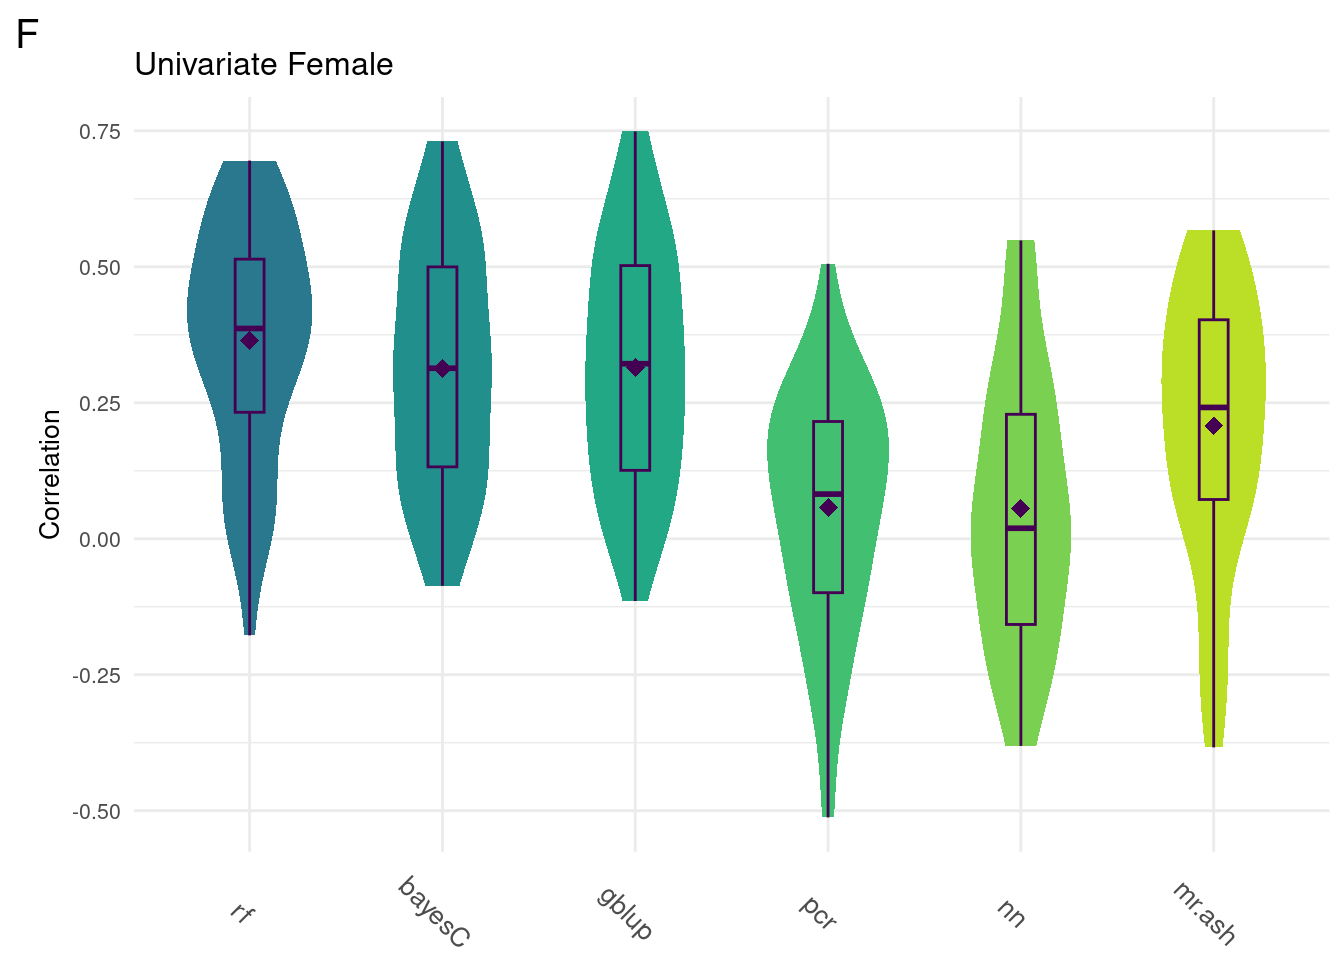
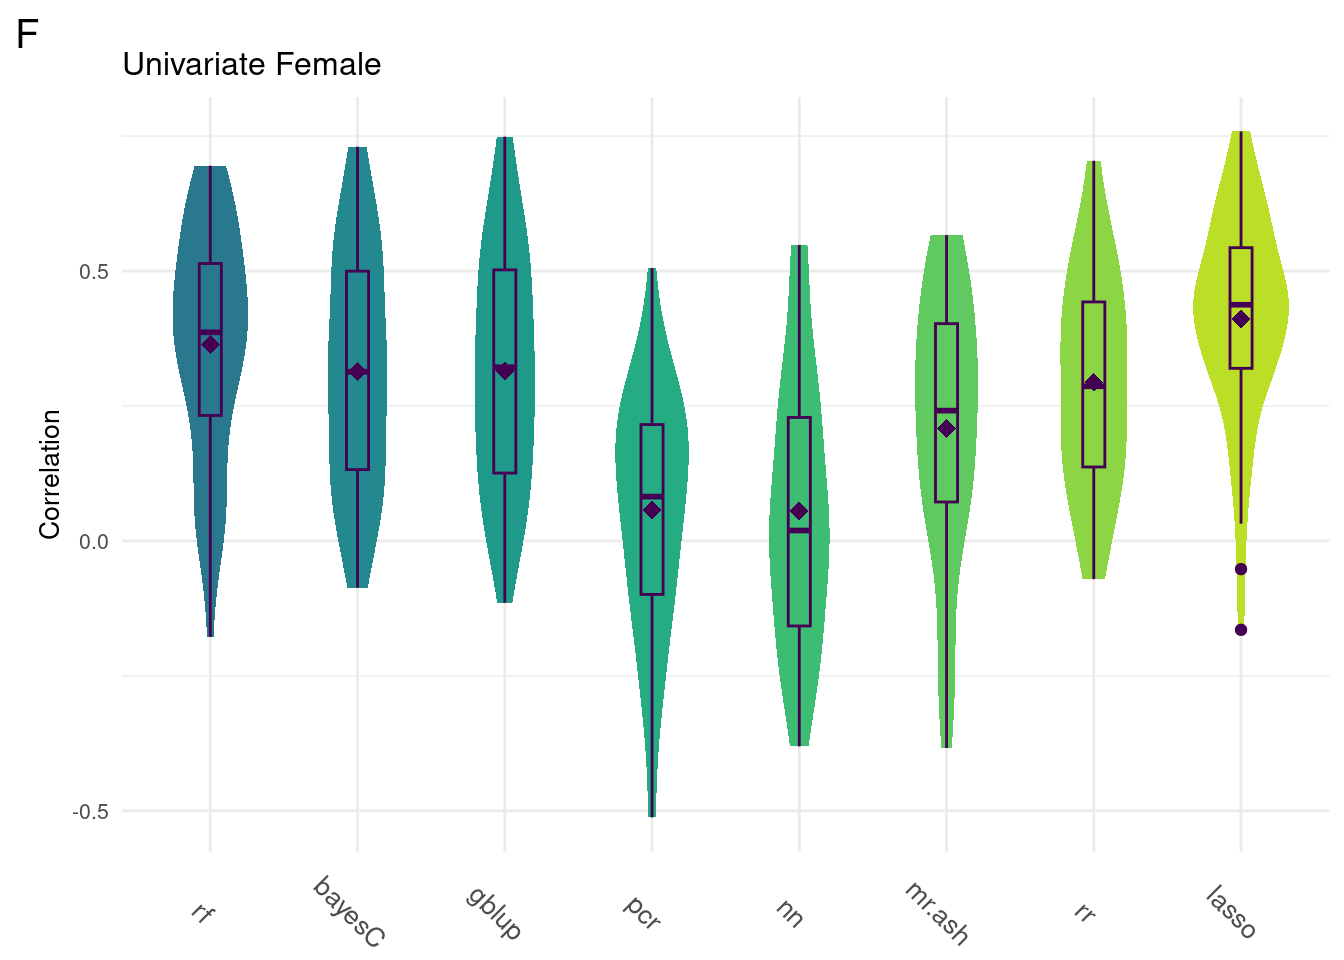
Build site.

diff --git a/docs/allHist.html b/docs/allHist.html
@@ -509,16 +509,16 @@ relative
 <div class="panel panel-default">
 <div class="panel-heading">
 <p class="panel-title">
-<a data-toggle="collapse" data-parent="#workflowr-checks" href="#strongRepositoryversionstrongahrefhttpsgithubcomnklimkodgrpstarvetree1606d88e6c802c82ae21ced332be356c814c5e28targetblank1606d88a"> <span class="glyphicon glyphicon-ok text-success" aria-hidden="true"></span> <strong>Repository version:</strong> <a href="https://github.com/nklimko/dgrp-starve/tree/1606d88e6c802c82ae21ced332be356c814c5e28" target="_blank">1606d88</a> </a>
+<a data-toggle="collapse" data-parent="#workflowr-checks" href="#strongRepositoryversionstrongahrefhttpsgithubcomnklimkodgrpstarvetree28b05db54e92ee8bc35650b52ee1fd4d414b1f31targetblank28b05dba"> <span class="glyphicon glyphicon-ok text-success" aria-hidden="true"></span> <strong>Repository version:</strong> <a href="https://github.com/nklimko/dgrp-starve/tree/28b05db54e92ee8bc35650b52ee1fd4d414b1f31" target="_blank">28b05db</a> </a>
 </p>
 </div>
[2 lines of base64/hex data omitted]
 <div class="panel-body">
 <p>
 Great! You are using Git for version control. Tracking code development and connecting the code version to the results is critical for reproducibility.
 </p>
 <p>
-The results in this page were generated with repository version <a href="https://github.com/nklimko/dgrp-starve/tree/1606d88e6c802c82ae21ced332be356c814c5e28" target="_blank">1606d88</a>. See the <em>Past versions</em> tab to see a history of the changes made to the R Markdown and HTML files.
+The results in this page were generated with repository version <a href="https://github.com/nklimko/dgrp-starve/tree/28b05db54e92ee8bc35650b52ee1fd4d414b1f31" target="_blank">28b05db</a>. See the <em>Past versions</em> tab to see a history of the changes made to the R Markdown and HTML files.
 </p>
 <p>
 Note that you need to be careful to ensure that all relevant files for the analysis have been committed to Git prior to generating the results (you can use <code>wflow_publish</code> or <code>wflow_git_commit</code>). workflowr only checks the R Markdown file, but you know if there are other scripts or data files that it depends on. Below is the status of the Git repository when the results were generated:
@@ -694,6 +694,40 @@ Message
 </tr>
 </thead>
 <tbody>
+<tr>
+<td>
+Rmd
+</td>
+<td>
+<a href="https://github.com/nklimko/dgrp-starve/blob/28b05db54e92ee8bc35650b52ee1fd4d414b1f31/analysis/allHist.Rmd" target="_blank">28b05db</a>
+</td>
+<td>
+nklimko
+</td>
+<td>
+2023-09-04
+</td>
+<td>
+wflow_publish(“analysis/allHist.Rmd”)
+</td>
+</tr>
+<tr>
+<td>
+html
+</td>
+<td>
+<a href="https://rawcdn.githack.com/nklimko/dgrp-starve/feaac67cfc1a09c2360625ce812ec1d4c282848f/docs/allHist.html" target="_blank">feaac67</a>
+</td>
+<td>
+nklimko
+</td>
+<td>
+2023-09-04
+</td>
+<td>
+Build site.
+</td>
+</tr>
 <tr>
 <td>
 Rmd
@@ -924,7 +958,7 @@ wflow_publish(“analysis/allHist.Rmd”)
 </div>
 <pre class="r"><code>#Correlation Coefficient Paths
 allF &lt;- &#39;snake/data/sr/40_all/f/cor/all.Rds&#39;
-allM &lt;- &#39;snake/data/sr/40_all/f/cor/all.Rds&#39;
+allM &lt;- &#39;snake/data/sr/40_all/m/cor/all.Rds&#39;
 
 uniF &lt;- &#39;snake/data/sr/40_all/f/cor/uni.Rds&#39;
 uniM &lt;- &#39;snake/data/sr/40_all/f/cor/uni.Rds&#39;
@@ -1010,8 +1044,10 @@ ggMake &lt;- function(data, sex, custom.title, custom.Ylab){
 <pre class="r"><code>#All
 allData &lt;- readRDS(allF)
 print(colMeans(na.omit(allData)))</code></pre>
-<pre><code>        rf     bayesC      gblup        pcr         nn     mr.ash 
-0.35128325 0.30140171 0.30374352 0.04416158 0.05540557 0.18472388 </code></pre>
+<pre><code>        rf     bayesC      gblup        pcr         nn     mr.ash         rr 
+0.35128325 0.30140171 0.30374352 0.04416158 0.05540557 0.18472388 0.28260545 
+     lasso 
+0.39068512 </code></pre>
 <pre class="r"><code>data &lt;- na.omit(ggTidy(allData))
 gg[[1]] &lt;- ggMake(data, &#39;F&#39;, &#39;All Female&#39;, &#39;Correlation&#39;)
 
@@ -1022,8 +1058,10 @@ gg[[3]] &lt;- ggMake(data, &#39;F&#39;, &#39;Univariate Female&#39;, &#39;Correl
 <pre class="r"><code>#All
 allData &lt;- readRDS(allM)
 print(colMeans(na.omit(allData)))</code></pre>
-<pre><code>        rf     bayesC      gblup        pcr         nn     mr.ash 
-0.35128325 0.30140171 0.30374352 0.04416158 0.05540557 0.18472388 </code></pre>
+<pre><code>        rf     bayesC      gblup        pcr         nn     mr.ash         rr 
+0.34113775 0.39865743 0.40408408 0.20116534 0.06311542 0.30500103 0.39682867 
+     lasso 
+0.34563610 </code></pre>
 <pre class="r"><code>data &lt;- na.omit(ggTidy(allData))
 gg[[2]] &lt;- ggMake(data, &#39;M&#39;, &#39;All Male&#39;, &#39;Correlation&#39;)
 
@@ -1058,6 +1096,17 @@ Date
 </tr>
 </thead>
 <tbody>
+<tr>
+<td>
+<a href="https://github.com/nklimko/dgrp-starve/blob/feaac67cfc1a09c2360625ce812ec1d4c282848f/docs/figure/allHist.Rmd/plot-print-all-1.png" target="_blank">feaac67</a>
+</td>
+<td>
+nklimko
+</td>
+<td>
+2023-09-04
+</td>
+</tr>
 <tr>
 <td>
 <a href="https://github.com/nklimko/dgrp-starve/blob/02ba6ed6a6eb26d74d7ad75facb5923ec69b08c0/docs/figure/allHist.Rmd/plot-print-all-1.png" target="_blank">02ba6ed</a>
@@ -1119,6 +1168,17 @@ Date
 </tr>
 </thead>
 <tbody>
+<tr>
+<td>
+<a href="https://github.com/nklimko/dgrp-starve/blob/feaac67cfc1a09c2360625ce812ec1d4c282848f/docs/figure/allHist.Rmd/plot-print-all-2.png" target="_blank">feaac67</a>
+</td>
+<td>
+nklimko
+</td>
+<td>
+2023-09-04
+</td>
+</tr>
 <tr>
 <td>
 <a href="https://github.com/nklimko/dgrp-starve/blob/02ba6ed6a6eb26d74d7ad75facb5923ec69b08c0/docs/figure/allHist.Rmd/plot-print-all-2.png" target="_blank">02ba6ed</a>
@@ -1184,6 +1244,17 @@ Date
 <tbody>
 <tr>
 <td>
+<a href="https://github.com/nklimko/dgrp-starve/blob/feaac67cfc1a09c2360625ce812ec1d4c282848f/docs/figure/allHist.Rmd/plot-print-univariate-1.png" target="_blank">feaac67</a>
+</td>
+<td>
+nklimko
+</td>
+<td>
+2023-09-04
+</td>
+</tr>
+<tr>
+<td>
 <a href="https://github.com/nklimko/dgrp-starve/blob/02ba6ed6a6eb26d74d7ad75facb5923ec69b08c0/docs/figure/allHist.Rmd/plot-print-univariate-1.png" target="_blank">02ba6ed</a>
 </td>
 <td>
@@ -1243,6 +1314,17 @@ Date
 </tr>
 </thead>
 <tbody>
+<tr>
+<td>
+<a href="https://github.com/nklimko/dgrp-starve/blob/feaac67cfc1a09c2360625ce812ec1d4c282848f/docs/figure/allHist.Rmd/plot-print-univariate-2.png" target="_blank">feaac67</a>
+</td>
+<td>
+nklimko
+</td>
+<td>
+2023-09-04
+</td>
+</tr>
 <tr>
 <td>
 <a href="https://github.com/nklimko/dgrp-starve/blob/02ba6ed6a6eb26d74d7ad75facb5923ec69b08c0/docs/figure/allHist.Rmd/plot-print-univariate-2.png" target="_blank">02ba6ed</a>
